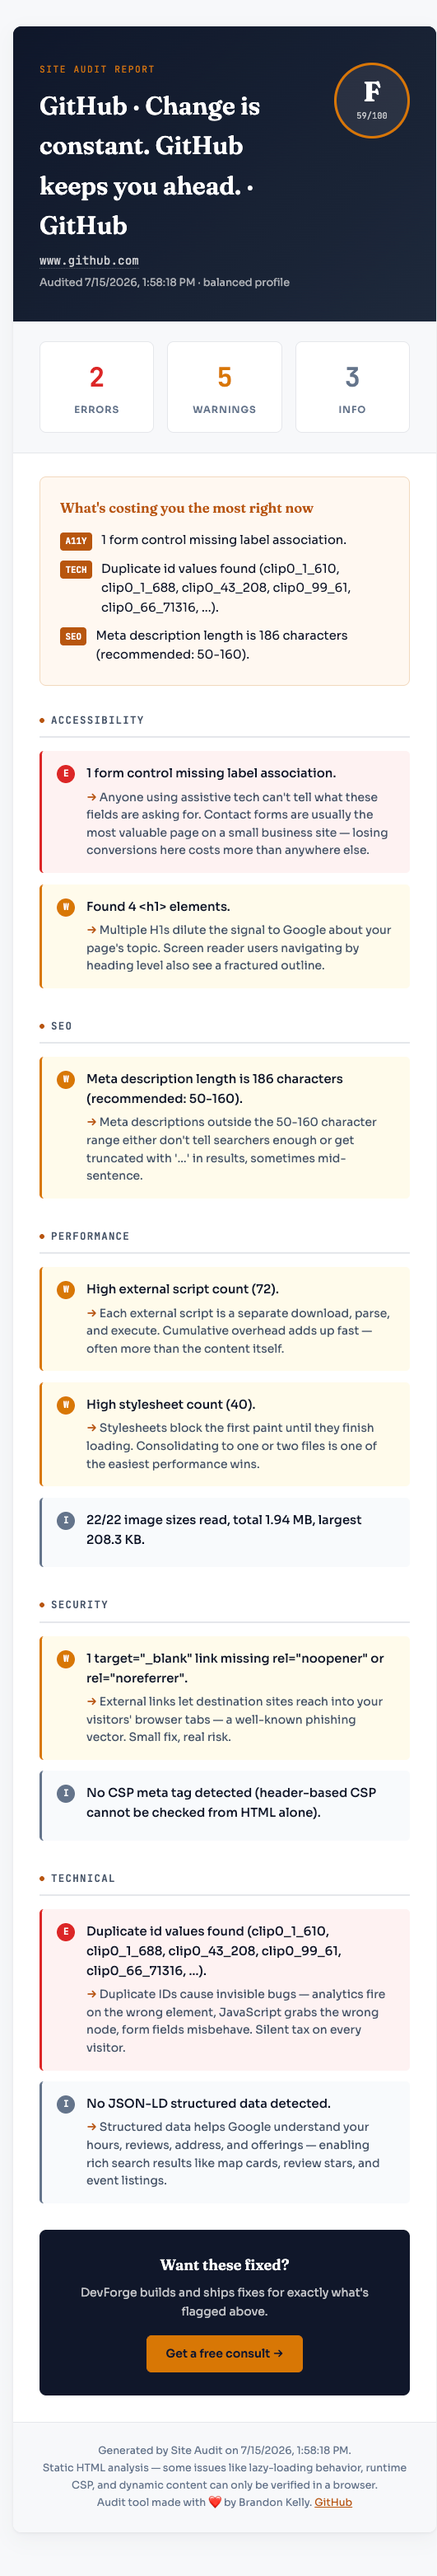
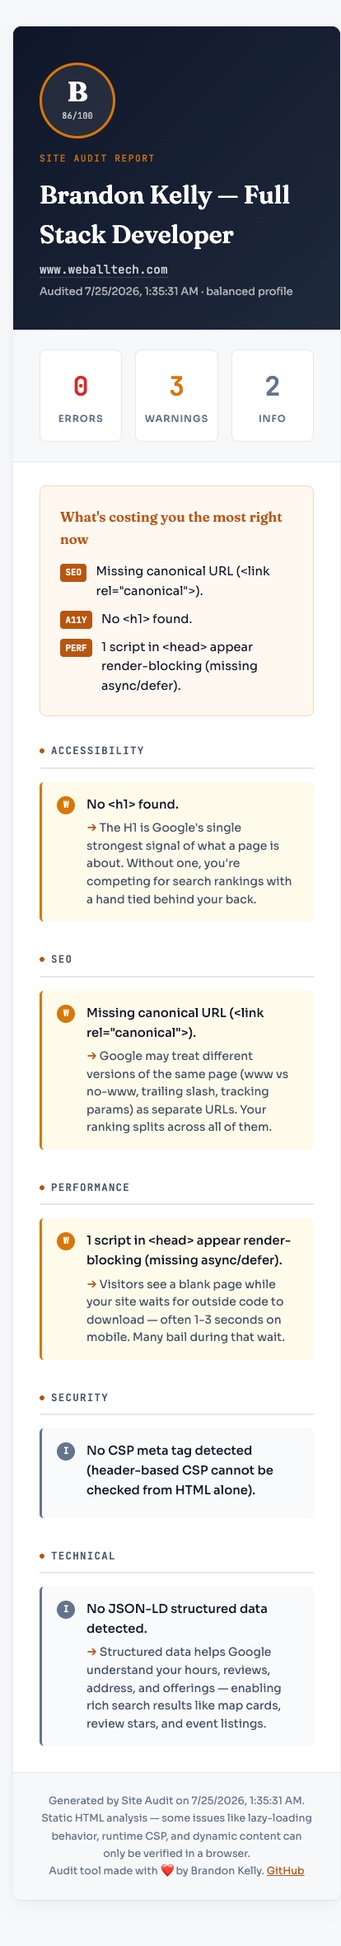
docs: swap README hero to own-site B-grade audit
GitHub F screenshot risked reading as a cheap dunk / over-triggering
tool. weballtech.com B (86/100) reframes as honest + confident: "the
tool doesn't hide from itself." Spicy GitHub angle still lives in the
launch tweet where the framing fits.

Changed region(s): [[0.029, 0.0, 1.0, 0.9894]]

diff --git a/README.md b/README.md
@@ -8,7 +8,9 @@
 
 Audit any live URL and get a portable, print-ready HTML report that tells a business owner exactly what's broken, who it hurts, and what it costs — no jargon.
 
-![Site audit report preview — GitHub.com scored an F](docs/report-preview.png)
+![Site audit report — auditing weballtech.com, scored a B](docs/report-preview.png)
+
+*Sample report — I audited my own portfolio. B (86/100): 3 fixable warnings, zero errors. The tool doesn't hide from itself.*
 
 ## Quick start
 
